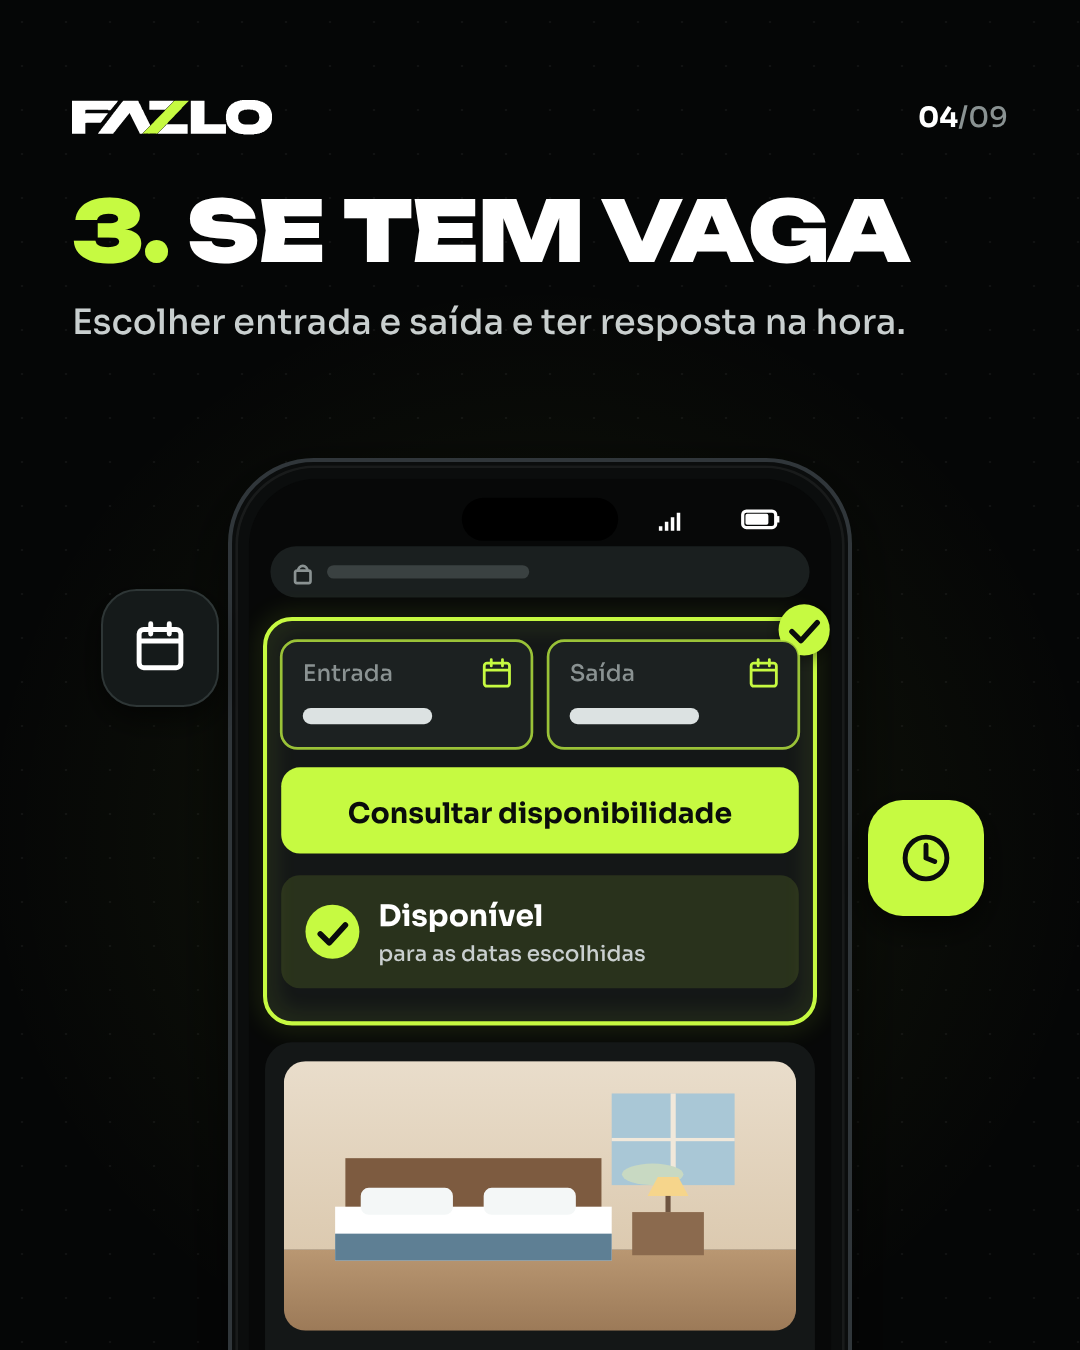
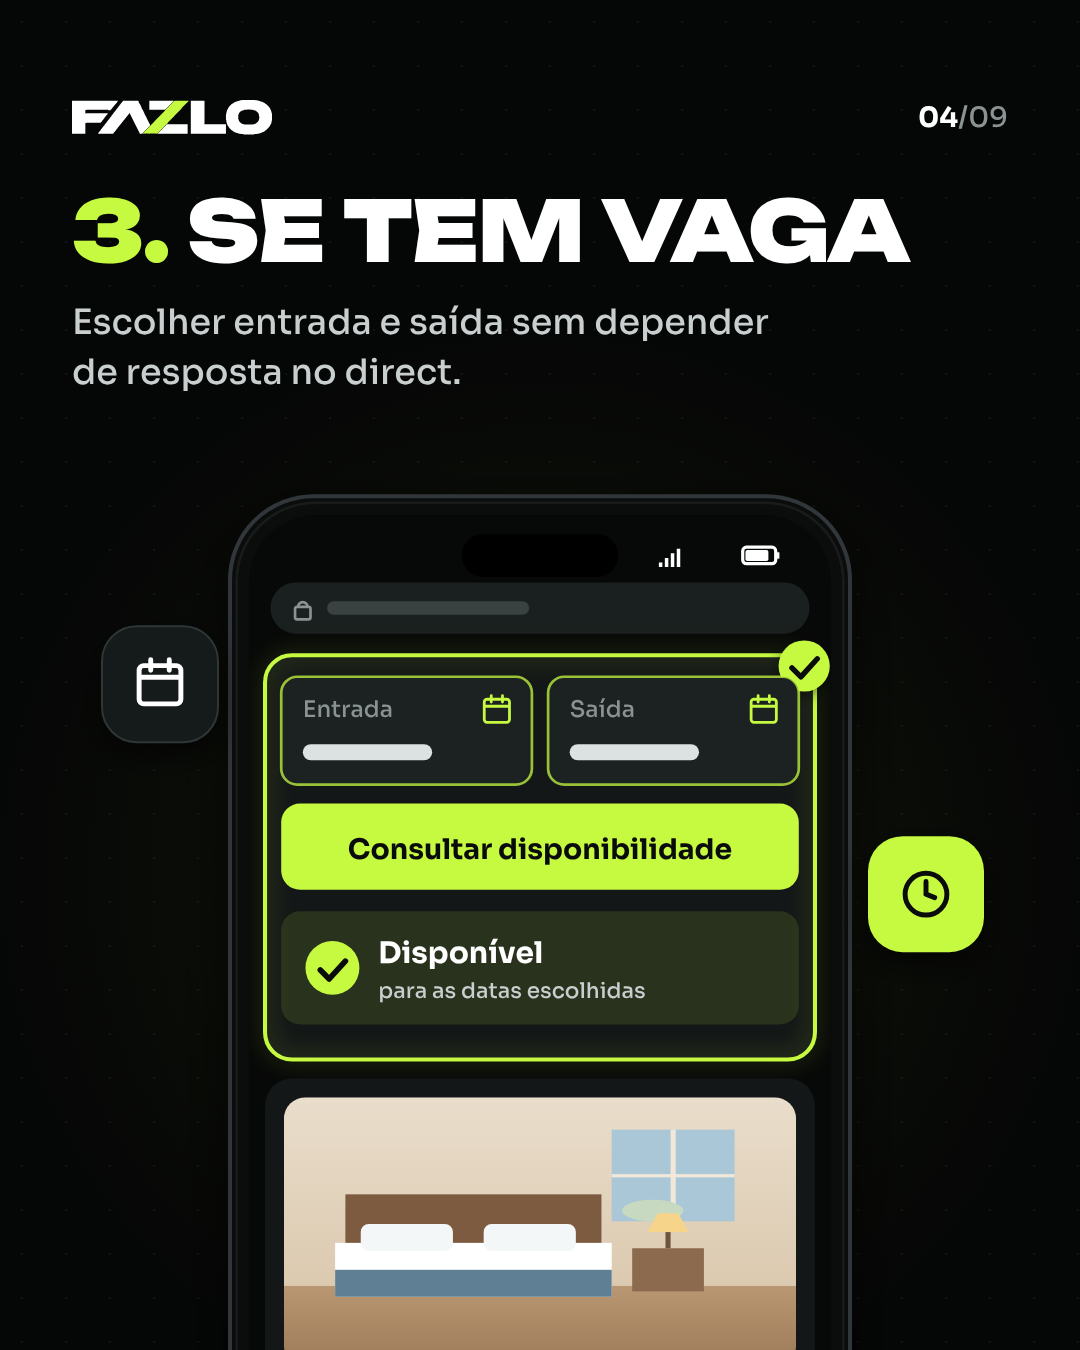
Carrossel "O que o hóspede procura": texto do slide 04 e conclusão
- Slide 04: "Escolher entrada e saída sem depender de resposta no direct."
  (quebra de linha escolhida); o card "Disponível" continua
- Status: concluído · aprovado; 9 PNGs finais em output/

Claude-Session: https://claude.ai/code/session_0166SwWybyXQNx2uznYVUJ6n

diff --git a/carrosseis/o-que-o-hospede-procura/src/slides.js b/carrosseis/o-que-o-hospede-procura/src/slides.js
@@ -331,7 +331,7 @@
     header(c, n);
     const y1 = 200 + S_ITEM * 0.74;                    // linha de base do título
     const yl = title(c, lines, M, y1, S_ITEM, { lime: [lines[0].split(' ')[0]] });
-    const bl = wrap(body, 35, 500, W - 2 * M);
+    const bl = body.split('\n').flatMap((part) => wrap(part, 35, 500, W - 2 * M));   // \n = quebra escolhida
     bl.forEach((s, i) => text(c, s, M, yl + 72 + i * 50, { size: 35, weight: 500, color: C.soft }));
     // o celular sobe quando o texto é curto (sem faixa vazia); chips acompanham
     const py = clamp(yl + 72 + (bl.length - 1) * 50 + 112, 460, 612), dy = py - 612;
@@ -537,7 +537,7 @@
       chips: [{ ic: 'bed', x: 168, y: 790 }, { ic: 'bath', x: 930, y: 930 }, { ic: 'view', x: 150, y: 1150 }] },
     { lines: ['2. UM VALOR DE', 'REFERÊNCIA'], body: 'Um “a partir de” já ajuda a decidir. Sem nenhum valor, ele precisa perguntar antes de seguir.', scr: scrValor,
       chips: [{ ic: 'tag', x: 160, y: 1010, lime: true }, { ic: 'check', x: 924, y: 820 }] },
-    { lines: ['3. SE TEM VAGA'], body: 'Escolher entrada e saída e ter resposta na hora.', scr: scrVaga,
+    { lines: ['3. SE TEM VAGA'], body: 'Escolher entrada e saída sem depender\nde resposta no direct.', scr: scrVaga,
       chips: [{ ic: 'cal', x: 160, y: 800 }, { ic: 'clock', x: 926, y: 1010, lime: true }] },
     { lines: ['4. ONDE FICA'], body: 'Mapa e distância até os passeios que ele veio fazer.', scr: scrLocal,
       chips: [{ ic: 'pin', x: 160, y: 820, lime: true }, { ic: 'map', x: 926, y: 1080 }] },

diff --git a/carrosseis/o-que-o-hospede-procura/README.md b/carrosseis/o-que-o-hospede-procura/README.md
@@ -2,9 +2,9 @@
 
 Carrossel da @fazlodigital. Peça estática: **9 slides PNG 1080×1350 (4:5)**.
 
-**Status: ajustes aplicados · aguardando aprovação final.**
+**Status: concluído · aprovado.** Os 9 PNGs finais estão em `output/`.
 
-🖼 **Prévia:** [`output/previa.jpg`](output/previa.jpg) · Slides: [`output/01.png`](output/01.png) … [`output/09.png`](output/09.png) · Revisão: [`output/revisao/`](output/revisao)
+🖼 **Folha:** [`output/previa.jpg`](output/previa.jpg) · Slides: [`output/01.png`](output/01.png) … [`output/09.png`](output/09.png) · Revisão: [`output/revisao/`](output/revisao)
 
 ![prévia](output/previa.jpg)
 
@@ -25,7 +25,7 @@ São as 7 informações que o hóspede procura antes de reservar. Cada uma apare
 | 01 | **O QUE O HÓSPEDE PROCURA ANTES DE RESERVAR** (ANTES DE RESERVAR em lima) | rodapé: "Salve para revisar a sua pousada" | navegador com a página inteira e os selos 1–7 em cada seção |
 | 02 | **1. FOTOS DE CADA QUARTO** | Não só a piscina. Ele quer ver onde vai dormir: cama, banheiro, vista. | galeria com a aba "Quartos" ativa (Piscina e Área comum ao lado), foto grande do quarto, miniaturas Cama, Banheiro e Vista |
 | 03 | **2. UM VALOR DE REFERÊNCIA** | Um "a partir de" já ajuda a decidir. Sem nenhum valor, ele precisa perguntar antes de seguir. | card da acomodação com o bloco "a partir de · R$ ▬ / noite" em destaque |
-| 04 | **3. SE TEM VAGA** | Escolher entrada e saída e ter resposta na hora. | campos **Entrada** e **Saída** preenchidos, botão **Consultar disponibilidade** e a resposta "Disponível para as datas escolhidas", **sem calendário aberto** |
+| 04 | **3. SE TEM VAGA** | Escolher entrada e saída sem depender de resposta no direct. | campos **Entrada** e **Saída** preenchidos, botão **Consultar disponibilidade** e a resposta "Disponível para as datas escolhidas", **sem calendário aberto** |
 | 05 | **4. ONDE FICA** | Mapa e distância até os passeios que ele veio fazer. | mapa ilustrado (ruas, rio, represa, mata) com o pin da pousada e rotas até os passeios; lista **Cachoeira, Trilha, Mirante** (público da Serra da Canastra e de Capitólio) com a distância como barra + "km" |
 | 06 | **5. O QUE ESTÁ INCLUSO** | Café da manhã, estacionamento, Wi-Fi, ar-condicionado: tudo à vista. | grade com os 4 itens, cada um com ícone e ✓ |
 | 07 | **6. AS REGRAS** | Check-in, check-out, crianças, pets. O que ele pergunta antes de fechar. | "Regras da hospedagem": Check-in, Check-out, Crianças, Pets, com os valores como barras |
@@ -57,7 +57,7 @@ A identidade é a mesma do Reel "Instagram não é site":
 
 ## Ajustes aprovados
 
-Ajustes da primeira prévia:
+Ajustes da 1ª prévia:
 
 - **Passeios do slide 05:** "Praia, Trilha, Cachoeira" virou "Cachoeira, Trilha, Mirante". O mapa trocou a orla por rio e represa.
 - **Logo:** FAZLO DIGITAL com 360 px na capa e no fechamento, e FAZLO compacta com 200 px nos itens.
@@ -67,6 +67,10 @@ Ajustes da primeira prévia:
   - checklist do slide 09;
   - palavras em lima;
   - topo mais baixo por causa do contador do Instagram.
+
+Ajuste da 2ª prévia:
+
+- **Texto do slide 04:** passou a ser "Escolher entrada e saída sem depender de resposta no direct.", quebrado em "…sem depender / de resposta no direct.". O card "Disponível para as datas escolhidas" continua.
 
 ## Revisão
 

diff --git a/README.md b/README.md
@@ -2,7 +2,7 @@
 
 Produção dos Reels do Instagram da **FAZLO Digital**: motion graphics 9:16 animados em código, renderizados quadro a quadro e com trilha e efeitos sintetizados e sincronizados à imagem. Também os **carrosséis** estáticos do feed, desenhados com o mesmo código e a mesma identidade ([`carrosseis/`](carrosseis)).
 
-> **Status:** **Reel 00 · "Da ideia ao digital."**, **Reel 001 · "Seu negócio já é bom. Seu digital precisa parecer isso."**, **Reel 002 · "Muito além de um site."**, **Reel 003 · "Ideias que ganham forma."** e **"Instagram não é site."** concluídos e em avaliação ([`reels/`](reels)). Carrossel **"O que o hóspede procura antes de reservar"** com ajustes aplicados, aguardando aprovação final ([`carrosseis/`](carrosseis)). Identidade audiovisual em [`brand/`](brand): kit oficial de logos em SVG (com o símbolo FZ corrigido), verde-limão `#C6FA41`, fontes Unbounded + Sora e assinatura sonora.
+> **Status:** **Reel 00 · "Da ideia ao digital."**, **Reel 001 · "Seu negócio já é bom. Seu digital precisa parecer isso."**, **Reel 002 · "Muito além de um site."**, **Reel 003 · "Ideias que ganham forma."** e **"Instagram não é site."** concluídos e em avaliação ([`reels/`](reels)). Carrossel **"O que o hóspede procura antes de reservar"** concluído e aprovado ([`carrosseis/`](carrosseis)). Identidade audiovisual em [`brand/`](brand): kit oficial de logos em SVG (com o símbolo FZ corrigido), verde-limão `#C6FA41`, fontes Unbounded + Sora e assinatura sonora.
 
 ## Padrão de entrega
 

diff --git a/carrosseis/README.md b/carrosseis/README.md
@@ -4,7 +4,7 @@ Peças estáticas do feed da @fazlodigital. Cada carrossel vive numa pasta indep
 
 | Carrossel | Conceito | Slides | Status | Pasta |
 |---|---|---|---|---|
-| **"O que o hóspede procura antes de reservar"** | As 7 informações que o hóspede procura antes de reservar, cada uma numa mini tela de site no celular. A capa traz a página inteira numerada, e o fechamento um checklist para o dono revisar a própria pousada | 9 × 1080×1350 | ajustes aplicados · aguardando aprovação final | [`o-que-o-hospede-procura/`](o-que-o-hospede-procura) |
+| **"O que o hóspede procura antes de reservar"** | As 7 informações que o hóspede procura antes de reservar, cada uma numa mini tela de site no celular. A capa traz a página inteira numerada, e o fechamento um checklist para o dono revisar a própria pousada | 9 × 1080×1350 | concluído · aprovado | [`o-que-o-hospede-procura/`](o-que-o-hospede-procura) |
 
 ## Como funciona
 
